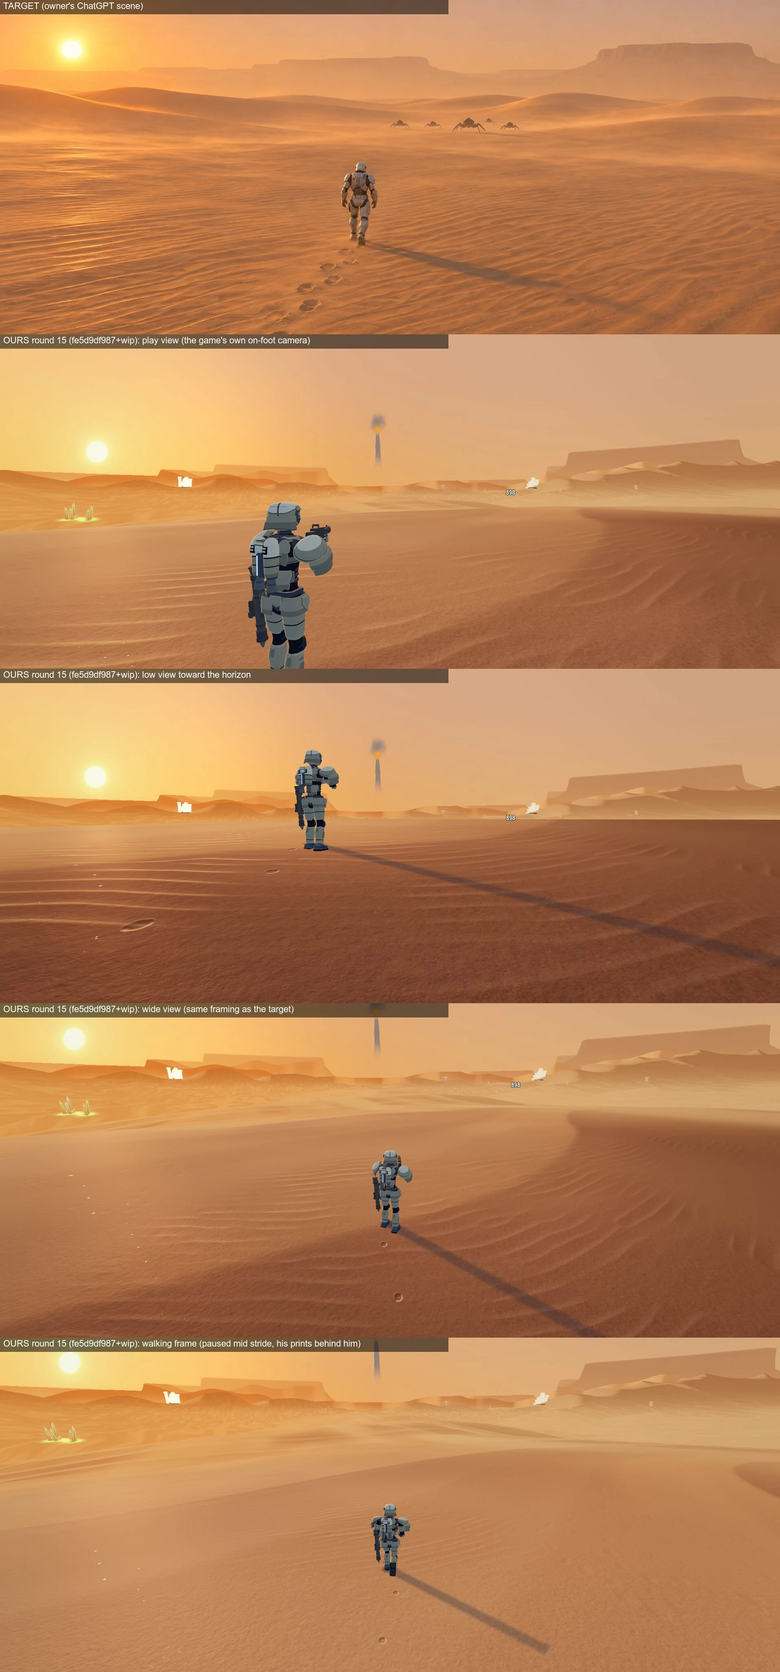
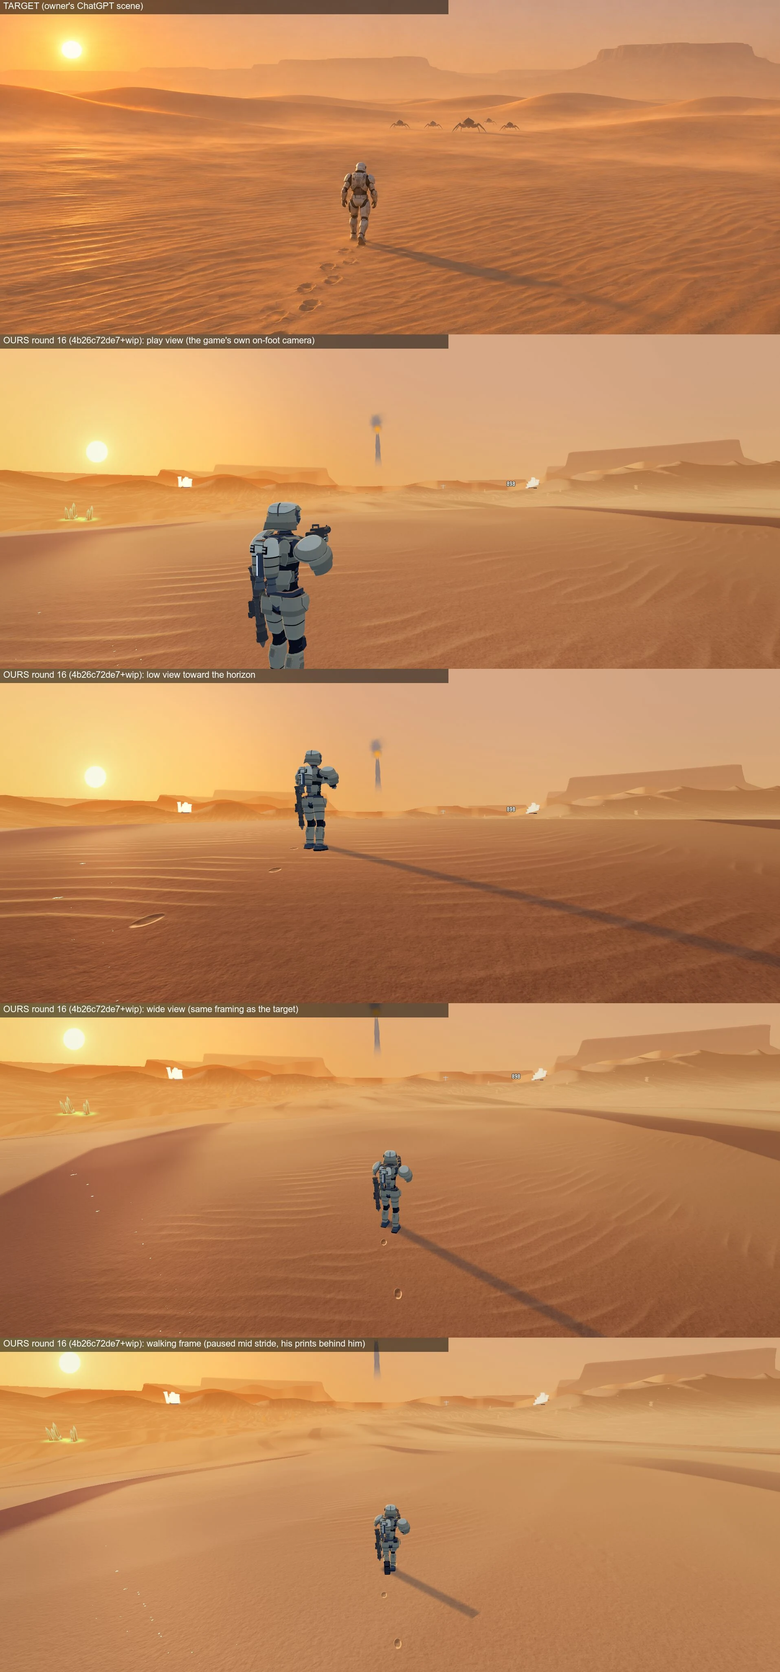
review page v192: Steel Tide: to review

diff --git a/d/steel-tide-clips-bb00109a/index.html b/d/steel-tide-clips-bb00109a/index.html
@@ -4,8 +4,8 @@
 <style>body{margin:0;background:#0d1117;color:#e6edf3;font:16px/1.5 -apple-system,system-ui,sans-serif}main{max-width:900px;margin:0 auto;padding:16px}h1{font-size:20px;margin:8px 0 4px}h2{font-size:17px;margin:34px 0 6px}p{margin:4px 0 10px;color:#9da7b3;font-size:14px}video,img{width:100%;height:auto;background:#000;border-radius:6px;display:block;margin-top:6px}a.b{display:inline-block;margin:8px 8px 0 0;padding:10px 14px;border:1px solid #3d444d;border-radius:6px;color:#e6edf3;text-decoration:none;font-size:14px}.t{font-size:12px;font-weight:400;color:#0d1117;background:#9da7b3;border-radius:10px;padding:2px 8px;margin-left:6px;vertical-align:middle}p.d{color:#7cb7ff;font-size:13px;margin:0 0 6px}nav small{color:#9da7b3;margin-left:6px}p b{color:#e6edf3}nav a{display:block;padding:7px 0;color:#7cb7ff;text-decoration:none;font-size:14px;border-bottom:1px solid #21262d}a.z{display:block;cursor:zoom-in}p.h{font-size:12px;margin:2px 0 8px}#lb{position:fixed;inset:0;background:#000;z-index:9;overflow:auto;display:none;cursor:zoom-in}#lb.on{display:block}#lb img{width:100%;height:100%;object-fit:contain;margin:0;border-radius:0;background:#000}#lb.big{cursor:zoom-out}#lb.big img{width:auto;height:auto;max-width:none;object-fit:none}#lbx{position:fixed;top:10px;right:14px;z-index:10;display:none;font:600 15px system-ui;color:#fff;background:#21262d;border:1px solid #3d444d;border-radius:6px;padding:8px 12px;cursor:pointer}#lb.on+#lbx{display:block}</style></head>
 <body><main>
 <h1>Steel Tide: to review</h1>
-<p>Version 191, 11-21 11:08 AM. 11-21 morning: everything rendered overnight that you had not seen: live sand, the sand work in progress, Petrel rounds 2 and 3, the hand cannons. Newest first. Total 84.3 MB.</p>
-<nav><a href="#petrel-wing-engine-redesign">Petrel: tiltwing + airstair (not in the game yet) <small>11-21 2:30 PM</small></a><a href="#elevator-pilot-light">Station lift: the pilot goes dark with the ship (not in the game yet) <small>11-21 11:06 AM</small></a><a href="#desert-sand-r13-wip">Desert sand round 15 (not in the game yet) <small>11-21 10:45 AM</small></a><a href="#petrel-airstair">Petrel: folding airstairs (not in the game yet) <small>11-21 10:44 AM</small></a><a href="#pilot-walk-sway">Pilot walk: half the side-to-side sway (before / after) <small>11-21 10:32 AM</small></a><a href="#unit-ground-shadows">Unit ground shadows back on (not live yet) <small>11-21 10:22 AM</small></a><a href="#extract-control-early">Extraction ending: control comes back as the hatch opens (not live yet) <small>11-21 10:10 AM</small></a><a href="#mech-hand-cannons">Mech hand cannons: OLD pull look (rejected), being replaced with the Singularity look <small>11-21 10:03 AM</small></a><a href="#desert-sand-live">Desert sand as it is live now (round 12), next to your target <small>11-21 9:53 AM</small></a><a href="#extraction-ending-elevator-up">Full extraction ending with the newest Petrel (live now) <small>11-21 9:50 AM</small></a><a href="#desert-sand-r11">Desert sand round 11: wavy ripple rows <small>11-21 9:37 AM</small></a><a href="#petrel-round3">Petrel ship: round 3, before and after (27 views) <small>11-21 9:37 AM</small></a><a href="#petrel-round2">Petrel ship: round 2, before and after <small>11-21 9:37 AM</small></a><a href="#leviathan-grabs-your-clone">Leviathan: a perfect dodge of the grab makes it bite your clone, then it is stunned <small>11-21 8:00 AM</small></a><a href="#pilot-base-hands">Pilot hands: same relaxed pose on both sides, new fingers <small>11-21 8:00 AM</small></a><a href="#pilot-tripo-attempt">Tripo pilot: new hands made by Tripo, attached to the same body <small>11-21 8:00 AM</small></a><a href="#pod-landing-m301">Drop pod landing (round 6, recorder fixed) <small>11-21 8:00 AM</small></a><a href="#hangar-pod-cradle">Hangar pod cradle: five locks, legs side by side, hatch closes as he lowers <small>11-21 8:00 AM</small></a><a href="#rocket-sentry-seated">Rocket sentry: the pilot sits in it, hands on the handle <small>11-21 8:00 AM</small></a><a href="#pod-landing-black-lines-removed">Pod landing: the huge black lines are removed <small>11-21 4:09 AM</small></a><a href="#dawn-time-of-day-preview">Dawn, a second time of day: for your yes or no (not in the game) <small>11-21 3:33 AM</small></a><a href="#hand-cannons-aoe-pull-blast">Heavy hand cannons: one hand pulls the pack in, the other fires two big slow blasts <small>11-21 3:20 AM</small></a><a href="#leviathan-reposition-no-slide">Leviathan: the body no longer slides when it turns <small>11-21 3:16 AM</small></a><a href="#hand-cannon-slice">Hand cannon combo, the proof slice (heavy blast, 1 second pull, F dive slam) <small>11-21 1:09 AM</small></a><a href="#weapon-icons-round-3">Weapon icons round 3: stylized from the real weapons, two directions <small>11-20 10:55 PM</small></a><a href="#desert-sand-direction">Desert sand: today against real sand (pick a direction) <small>11-20 10:51 PM</small></a><a href="#boss-shading-which-part">Your 8:00 PM report: which part of the boss looked wrong? <small>11-20 10:51 PM</small></a><a href="#pilot-ground-dash">Ground dash round 3: looser body, rifle holds its aim (clip, 8 directions) <small>11-20 10:41 PM</small></a><a href="#weapon-icons-pick">Weapon icons round 2: traced from the real gun models <small>11-20 5:36 PM</small></a><a href="#launch-sequence-live">Loading flight: side planets removed <small>11-20 5:26 PM</small></a><a href="#hangar-decompress">Hangar arrival: the mist clears right after you enter <small>11-20 5:01 PM</small></a><a href="#hangar-idle">Pilot idle in the hangar (round 2, looping) <small>11-20 5:01 PM</small></a><a href="#pilot-walk-run-m301">Pilot walk and run (export round 2) <small>11-20 5:01 PM</small></a><a href="#hangar-walk-run">Pilot walk and run in the hangar <small>11-20 5:01 PM</small></a><a href="#pod-boarding-no-clip">Hangar pod lowered, flat walk-in <small>11-20 5:01 PM</small></a><a href="#gravity-well-real-shots">Gravity well keeps each enemy shot&#x27;s own look <small>11-20 1:19 AM</small></a><a href="#pod-hatch-seals-first">Drop pod lowers only after the hatch is shut <small>11-20 1:19 AM</small></a><a href="#pilot-no-camera-lean">The pilot no longer leans when you tilt the camera <small>11-20 12:59 AM</small></a><a href="#ocean-ships-fewer">Ocean: 60 % fewer ships, wider spacing, hulks no longer overlap boats <small>11-20 12:59 AM</small></a><a href="#hangar-stairs-windows-vapor">Hangar: walkable stairs, space-only windows, leaking vapor <small>11-20 12:59 AM</small></a><a href="#drop-pod-no-hud">No HUD during the drop pod descent <small>11-20 12:59 AM</small></a><a href="#coop-join-as-pilot">Co-op: friends join as pilots beside you in the hangar <small>11-20 12:59 AM</small></a><a href="#new-mech-3d-r2">New mech: first 3D model from your sheet <small>11-19 11:21 PM</small></a><a href="#tactician-r2-s302-clean">Tactician pilot: your pick, smudges cleaned (ready to wire) <small>11-19 10:24 PM</small></a><a href="#vanguard-r2-s302">Vanguard pilot: your pick, six fingers fixed (ready to wire) <small>11-19 10:24 PM</small></a><a href="#engineer-ingame-first">Engineer pilot in the game (rough, live) <small>11-19 10:13 PM</small></a><a href="#cradle-jets-flames">Mothership engines on the launch flight <small>11-19 9:25 PM</small></a><a href="#mission-control-star-map">Mission Control star map with detailed planets <small>11-19 9:11 PM</small></a><a href="#island-kites-air">Island: Kites climb to a jetting pilot (and snipers aim ahead of him) <small>11-19 8:44 PM</small></a><a href="#petrel-seat-hold">Petrel: chest hold and real seats <small>11-19 4:25 PM</small></a><a href="#island-scuttle">Island enemy: Scuttle <small>11-19 3:40 PM</small></a><a href="#island-thresh">Island enemy: Thresh <small>11-19 3:40 PM</small></a><a href="#island-maul">Island enemy: Maul <small>11-19 3:40 PM</small></a><a href="#island-kite">Island enemy: Kite <small>11-19 3:40 PM</small></a><a href="#island-haul">Island enemy: Haul <small>11-19 3:40 PM</small></a><a href="#island-coil">Island enemy: Coil <small>11-19 3:40 PM</small></a><a href="#island-bloom">Island enemy: Bloom <small>11-19 3:40 PM</small></a><a href="#island-lagoon-sniper">Island enemy: Lagoon Sniper <small>11-19 3:40 PM</small></a><a href="#island-lagoon-lobber">Island enemy: Lagoon Lobber <small>11-19 3:40 PM</small></a><a href="#island-heave">Island enemy: Heave <small>11-19 3:40 PM</small></a><a href="#island-roost">Island enemy: Roost (the Widow) <small>11-19 3:40 PM</small></a><a href="#island-noose">Island enemy: Noose <small>11-19 3:40 PM</small></a><a href="#island-brine">Island enemy: Brine <small>11-19 3:40 PM</small></a><a href="#island-rift">Island enemy: Rift <small>11-19 3:40 PM</small></a><a href="#island-quill">Island enemy: Quill <small>11-19 3:40 PM</small></a><a href="#island-drum">Island enemy: Drum <small>11-19 3:40 PM</small></a><a href="#island-tusk">Island enemy: Tusk <small>11-19 3:40 PM</small></a><a href="#hangar-jets-every-press">Hangar jets on every Space tap and Shift dash <small>11-19 3:30 PM</small></a><a href="#pistol-holster">Pistol stays in its holster until you aim <small>11-19 3:00 PM</small></a><a href="#loading-no-counts">Loading screen shows only the step and the bar <small>11-19 2:30 PM</small></a><a href="#hangar-globe-fix">Hangar globe turns on its own, with the target marks removed <small>11-19 1:50 PM</small></a><a href="#petrel-seat-facing">Petrel: the seated pilot faces the way his seat faces <small>11-19 1:20 PM</small></a><a href="#mission-control-planets">Mission Control: pick a planet first, then start <small>11-19 12:07 PM</small></a><a href="#hangar-station-screens">Hangar station screens <small>11-19 12:07 PM</small></a><a href="#pilot-drop-pod-boarding">Pilot climbs into the drop pod <small>11-19 10:40 AM</small></a><a href="#hangar-laser-tag">Hangar laser tag <small>11-19 1:22 AM</small></a><a href="#mission-control-prop">Mission Control: the holo globe table <small>11-19 1:05 AM</small></a><a href="#hangar-drop-pod-marker">Drop pod marker in the hangar <small>11-19 12:50 AM</small></a><a href="#hangar-real-in-game">The real hangar, walked in the game <small>11-18 9:30 PM</small></a><a href="#cradle-drop-launch-r4">NEEDS YOUR PICK: the drop cannon&#x27;s size on the Cradle (three sizes), with its back hidden and navy colour <small>11-18 7:43 PM</small></a><a href="#stage4-terrain-and-base">Stage 4, the new-planet loop: parts built, not playable yet <small>11-18 7:29 PM</small></a><a href="#ocean-titan-bar-below">NEEDS YOUR EYE: Ocean Titan now uses the Strider&#x27;s camera (low, behind, horizon in view) <small>11-18 6:46 PM</small></a><a href="#titan-hud-unify">One lock ring, one Titan armor bar, cooldown icons instead of status text (first pass) <small>11-18 6:41 PM</small></a><a href="#cradle-hull-r4">The Cradle mothership, round 4: cannon moved under the stern, darker landing pad <small>11-18 5:15 PM</small></a><a href="#island-fliers-low">Red fliers over the island: fewer, and they creep instead of parking <small>11-18 12:30 AM</small></a><a href="#horde-pilot-zoom">NEEDS YOUR CALL: island Horde, camera zooms in when you are on foot <small>11-17 1:30 PM</small></a></nav>
+<p>Version 192, 11-21 11:14 AM. 11-21 morning: everything rendered overnight that you had not seen: live sand, the sand work in progress, Petrel rounds 2 and 3, the hand cannons. Newest first. Total 84.3 MB.</p>
+<nav><a href="#petrel-wing-engine-redesign">Petrel: tiltwing + airstair (not in the game yet) <small>11-21 2:30 PM</small></a><a href="#desert-sand-r13-wip">Desert sand round 16 (not in the game yet) <small>11-21 11:14 AM</small></a><a href="#elevator-pilot-light">Station lift: the pilot goes dark with the ship (not in the game yet) <small>11-21 11:06 AM</small></a><a href="#petrel-airstair">Petrel: folding airstairs (not in the game yet) <small>11-21 10:44 AM</small></a><a href="#pilot-walk-sway">Pilot walk: half the side-to-side sway (before / after) <small>11-21 10:32 AM</small></a><a href="#unit-ground-shadows">Unit ground shadows back on (not live yet) <small>11-21 10:22 AM</small></a><a href="#extract-control-early">Extraction ending: control comes back as the hatch opens (not live yet) <small>11-21 10:10 AM</small></a><a href="#mech-hand-cannons">Mech hand cannons: OLD pull look (rejected), being replaced with the Singularity look <small>11-21 10:03 AM</small></a><a href="#desert-sand-live">Desert sand as it is live now (round 12), next to your target <small>11-21 9:53 AM</small></a><a href="#extraction-ending-elevator-up">Full extraction ending with the newest Petrel (live now) <small>11-21 9:50 AM</small></a><a href="#desert-sand-r11">Desert sand round 11: wavy ripple rows <small>11-21 9:37 AM</small></a><a href="#petrel-round3">Petrel ship: round 3, before and after (27 views) <small>11-21 9:37 AM</small></a><a href="#petrel-round2">Petrel ship: round 2, before and after <small>11-21 9:37 AM</small></a><a href="#leviathan-grabs-your-clone">Leviathan: a perfect dodge of the grab makes it bite your clone, then it is stunned <small>11-21 8:00 AM</small></a><a href="#pilot-base-hands">Pilot hands: same relaxed pose on both sides, new fingers <small>11-21 8:00 AM</small></a><a href="#pilot-tripo-attempt">Tripo pilot: new hands made by Tripo, attached to the same body <small>11-21 8:00 AM</small></a><a href="#pod-landing-m301">Drop pod landing (round 6, recorder fixed) <small>11-21 8:00 AM</small></a><a href="#hangar-pod-cradle">Hangar pod cradle: five locks, legs side by side, hatch closes as he lowers <small>11-21 8:00 AM</small></a><a href="#rocket-sentry-seated">Rocket sentry: the pilot sits in it, hands on the handle <small>11-21 8:00 AM</small></a><a href="#pod-landing-black-lines-removed">Pod landing: the huge black lines are removed <small>11-21 4:09 AM</small></a><a href="#dawn-time-of-day-preview">Dawn, a second time of day: for your yes or no (not in the game) <small>11-21 3:33 AM</small></a><a href="#hand-cannons-aoe-pull-blast">Heavy hand cannons: one hand pulls the pack in, the other fires two big slow blasts <small>11-21 3:20 AM</small></a><a href="#leviathan-reposition-no-slide">Leviathan: the body no longer slides when it turns <small>11-21 3:16 AM</small></a><a href="#hand-cannon-slice">Hand cannon combo, the proof slice (heavy blast, 1 second pull, F dive slam) <small>11-21 1:09 AM</small></a><a href="#weapon-icons-round-3">Weapon icons round 3: stylized from the real weapons, two directions <small>11-20 10:55 PM</small></a><a href="#desert-sand-direction">Desert sand: today against real sand (pick a direction) <small>11-20 10:51 PM</small></a><a href="#boss-shading-which-part">Your 8:00 PM report: which part of the boss looked wrong? <small>11-20 10:51 PM</small></a><a href="#pilot-ground-dash">Ground dash round 3: looser body, rifle holds its aim (clip, 8 directions) <small>11-20 10:41 PM</small></a><a href="#weapon-icons-pick">Weapon icons round 2: traced from the real gun models <small>11-20 5:36 PM</small></a><a href="#launch-sequence-live">Loading flight: side planets removed <small>11-20 5:26 PM</small></a><a href="#hangar-decompress">Hangar arrival: the mist clears right after you enter <small>11-20 5:01 PM</small></a><a href="#hangar-idle">Pilot idle in the hangar (round 2, looping) <small>11-20 5:01 PM</small></a><a href="#pilot-walk-run-m301">Pilot walk and run (export round 2) <small>11-20 5:01 PM</small></a><a href="#hangar-walk-run">Pilot walk and run in the hangar <small>11-20 5:01 PM</small></a><a href="#pod-boarding-no-clip">Hangar pod lowered, flat walk-in <small>11-20 5:01 PM</small></a><a href="#gravity-well-real-shots">Gravity well keeps each enemy shot&#x27;s own look <small>11-20 1:19 AM</small></a><a href="#pod-hatch-seals-first">Drop pod lowers only after the hatch is shut <small>11-20 1:19 AM</small></a><a href="#pilot-no-camera-lean">The pilot no longer leans when you tilt the camera <small>11-20 12:59 AM</small></a><a href="#ocean-ships-fewer">Ocean: 60 % fewer ships, wider spacing, hulks no longer overlap boats <small>11-20 12:59 AM</small></a><a href="#hangar-stairs-windows-vapor">Hangar: walkable stairs, space-only windows, leaking vapor <small>11-20 12:59 AM</small></a><a href="#drop-pod-no-hud">No HUD during the drop pod descent <small>11-20 12:59 AM</small></a><a href="#coop-join-as-pilot">Co-op: friends join as pilots beside you in the hangar <small>11-20 12:59 AM</small></a><a href="#new-mech-3d-r2">New mech: first 3D model from your sheet <small>11-19 11:21 PM</small></a><a href="#tactician-r2-s302-clean">Tactician pilot: your pick, smudges cleaned (ready to wire) <small>11-19 10:24 PM</small></a><a href="#vanguard-r2-s302">Vanguard pilot: your pick, six fingers fixed (ready to wire) <small>11-19 10:24 PM</small></a><a href="#engineer-ingame-first">Engineer pilot in the game (rough, live) <small>11-19 10:13 PM</small></a><a href="#cradle-jets-flames">Mothership engines on the launch flight <small>11-19 9:25 PM</small></a><a href="#mission-control-star-map">Mission Control star map with detailed planets <small>11-19 9:11 PM</small></a><a href="#island-kites-air">Island: Kites climb to a jetting pilot (and snipers aim ahead of him) <small>11-19 8:44 PM</small></a><a href="#petrel-seat-hold">Petrel: chest hold and real seats <small>11-19 4:25 PM</small></a><a href="#island-scuttle">Island enemy: Scuttle <small>11-19 3:40 PM</small></a><a href="#island-thresh">Island enemy: Thresh <small>11-19 3:40 PM</small></a><a href="#island-maul">Island enemy: Maul <small>11-19 3:40 PM</small></a><a href="#island-kite">Island enemy: Kite <small>11-19 3:40 PM</small></a><a href="#island-haul">Island enemy: Haul <small>11-19 3:40 PM</small></a><a href="#island-coil">Island enemy: Coil <small>11-19 3:40 PM</small></a><a href="#island-bloom">Island enemy: Bloom <small>11-19 3:40 PM</small></a><a href="#island-lagoon-sniper">Island enemy: Lagoon Sniper <small>11-19 3:40 PM</small></a><a href="#island-lagoon-lobber">Island enemy: Lagoon Lobber <small>11-19 3:40 PM</small></a><a href="#island-heave">Island enemy: Heave <small>11-19 3:40 PM</small></a><a href="#island-roost">Island enemy: Roost (the Widow) <small>11-19 3:40 PM</small></a><a href="#island-noose">Island enemy: Noose <small>11-19 3:40 PM</small></a><a href="#island-brine">Island enemy: Brine <small>11-19 3:40 PM</small></a><a href="#island-rift">Island enemy: Rift <small>11-19 3:40 PM</small></a><a href="#island-quill">Island enemy: Quill <small>11-19 3:40 PM</small></a><a href="#island-drum">Island enemy: Drum <small>11-19 3:40 PM</small></a><a href="#island-tusk">Island enemy: Tusk <small>11-19 3:40 PM</small></a><a href="#hangar-jets-every-press">Hangar jets on every Space tap and Shift dash <small>11-19 3:30 PM</small></a><a href="#pistol-holster">Pistol stays in its holster until you aim <small>11-19 3:00 PM</small></a><a href="#loading-no-counts">Loading screen shows only the step and the bar <small>11-19 2:30 PM</small></a><a href="#hangar-globe-fix">Hangar globe turns on its own, with the target marks removed <small>11-19 1:50 PM</small></a><a href="#petrel-seat-facing">Petrel: the seated pilot faces the way his seat faces <small>11-19 1:20 PM</small></a><a href="#mission-control-planets">Mission Control: pick a planet first, then start <small>11-19 12:07 PM</small></a><a href="#hangar-station-screens">Hangar station screens <small>11-19 12:07 PM</small></a><a href="#pilot-drop-pod-boarding">Pilot climbs into the drop pod <small>11-19 10:40 AM</small></a><a href="#hangar-laser-tag">Hangar laser tag <small>11-19 1:22 AM</small></a><a href="#mission-control-prop">Mission Control: the holo globe table <small>11-19 1:05 AM</small></a><a href="#hangar-drop-pod-marker">Drop pod marker in the hangar <small>11-19 12:50 AM</small></a><a href="#hangar-real-in-game">The real hangar, walked in the game <small>11-18 9:30 PM</small></a><a href="#cradle-drop-launch-r4">NEEDS YOUR PICK: the drop cannon&#x27;s size on the Cradle (three sizes), with its back hidden and navy colour <small>11-18 7:43 PM</small></a><a href="#stage4-terrain-and-base">Stage 4, the new-planet loop: parts built, not playable yet <small>11-18 7:29 PM</small></a><a href="#ocean-titan-bar-below">NEEDS YOUR EYE: Ocean Titan now uses the Strider&#x27;s camera (low, behind, horizon in view) <small>11-18 6:46 PM</small></a><a href="#titan-hud-unify">One lock ring, one Titan armor bar, cooldown icons instead of status text (first pass) <small>11-18 6:41 PM</small></a><a href="#cradle-hull-r4">The Cradle mothership, round 4: cannon moved under the stern, darker landing pad <small>11-18 5:15 PM</small></a><a href="#island-fliers-low">Red fliers over the island: fewer, and they creep instead of parking <small>11-18 12:30 AM</small></a><a href="#horde-pilot-zoom">NEEDS YOUR CALL: island Horde, camera zooms in when you are on foot <small>11-17 1:30 PM</small></a></nav>
 <section id="petrel-wing-engine-redesign"><h2>Petrel: tiltwing + airstair (not in the game yet) <span class="t">built, not live</span></h2>
 <p class="d">Updated 11-21 2:30 PM ET &middot; captured from lane build f3a298441a (tiltwing + airstair merged) vs Dock d7deeea3bf</p>
 <p><b>What changed:</b> Now in the real game cameras, with the new airstair merged in: wing and jet tilt as one unit, upright when landed and in the hangar, flat in flight; the stairs clear the jets at every tilt.</p>
@@ -15,6 +15,11 @@
 <video controls playsinline muted preload="none" poster="petrel-wing-engine-redesign-1.webp" data-fb="petrel-wing-engine-redesign"><source src="petrel-wing-engine-redesign.mp4" type="video/mp4"></video>
 <div class="fb" data-id="petrel-wing-engine-redesign" data-title="Petrel: tiltwing + airstair (not in the game yet)"><p class="h">Pause the video at any moment to write a note for that second.</p><div class="fbbox" hidden><b class="fbt"></b><textarea rows="3" placeholder="Your feedback at this moment"></textarea><button class="fbsave">Save and keep playing</button><button class="fbcancel">Cancel</button></div><ol class="fblist"></ol><button class="fbexp">Export feedback</button><div class="fbout" hidden><textarea rows="8" readonly></textarea><button class="fbcopy">Copy</button><span class="fbok"></span></div></div>
 <a class="b" href="petrel-wing-engine-redesign.mp4">Open the video on its own (1.7 MB)</a></section>
+<section id="desert-sand-r13-wip"><h2>Desert sand round 16 (not in the game yet) <span class="t">built, not live</span></h2>
+<p class="d">Updated 11-21 11:14 AM ET &middot; captured from lane build GROUND-SAND-R16-1121</p>
+<p><b>What changed:</b> More dunes close to you, now running away from you so the low sun lights one side and shades the other. Blowing dust starts closer to the ground, footprints are longer with a brighter far edge, and the sun glints on the grains are brighter.</p>
+<p><b>Where to look:</b> Wide and walking views: the lit and shaded dune sides near the pilot; the top picture is your target.</p>
+<a class="z" href="desert-sand-r13-wip-1-full.webp"><img loading="lazy" src="desert-sand-r13-wip-1.webp" alt="Desert sand round 16 (not in the game yet)"></a><p class="h">Click the image for full screen, click again for full size.</p></section>
 <section id="elevator-pilot-light"><h2>Station lift: the pilot goes dark with the ship (not in the game yet) <span class="t">built, not live</span></h2>
 <p class="d">Updated 11-21 11:06 AM ET &middot; captured from lane build ELEVATOR-PILOT-LIGHT-1121 on Dock (BEFORE = Dock, same shot, same camera)</p>
 <p><b>What changed:</b> In the lift shaft the pilot was fully lit alone in the black; he now takes the same shaft darkening as the ship and the room, for you and co-op pilots.</p>
@@ -23,11 +28,6 @@
 <video controls playsinline muted preload="none" poster="elevator-pilot-light-1.webp" data-fb="elevator-pilot-light"><source src="elevator-pilot-light.mp4" type="video/mp4"></video>
 <div class="fb" data-id="elevator-pilot-light" data-title="Station lift: the pilot goes dark with the ship (not in the game yet)"><p class="h">Pause the video at any moment to write a note for that second.</p><div class="fbbox" hidden><b class="fbt"></b><textarea rows="3" placeholder="Your feedback at this moment"></textarea><button class="fbsave">Save and keep playing</button><button class="fbcancel">Cancel</button></div><ol class="fblist"></ol><button class="fbexp">Export feedback</button><div class="fbout" hidden><textarea rows="8" readonly></textarea><button class="fbcopy">Copy</button><span class="fbok"></span></div></div>
 <a class="b" href="elevator-pilot-light.mp4">Open the video on its own (0.9 MB)</a></section>
-<section id="desert-sand-r13-wip"><h2>Desert sand round 15 (not in the game yet) <span class="t">built, not live</span></h2>
-<p class="d">Updated 11-21 10:45 AM ET &middot; captured from lane build GROUND-SAND-R15-1121</p>
-<p><b>What changed:</b> Dunes now have real lit and shaded faces with a sharp crest line and a steeper back side; shaded faces are a cooler color, not just darker orange. Lee faces carry their own ripples, ripple tone carries further out, the near sand shifts in color, and a few grains flash in the sun.</p>
-<p><b>Where to look:</b> Play and wide views: the shaded dune faces and crest lines in the middle ground; the top picture is your target.</p>
-<a class="z" href="desert-sand-r13-wip-1-full.webp"><img loading="lazy" src="desert-sand-r13-wip-1.webp" alt="Desert sand round 15 (not in the game yet)"></a><p class="h">Click the image for full screen, click again for full size.</p></section>
 <section id="petrel-airstair"><h2>Petrel: folding airstairs (not in the game yet) <span class="t">built, not live</span></h2>
 <p class="d">Updated 11-21 10:44 AM ET &middot; captured from lane build PETREL-AIRSTAIR-1121 r2 stills (real GPU, the island and the hangar)</p>
 <p><b>What changed:</b> The walk-on deck by each door is replaced by a folding airstair: steps and handrails, hinged at the door&#x27;s foot. It folds up flush into the doorway once every pilot is seated, before take-off, and unfolds at the station once the lift stops, before the pilot walks out.</p>
